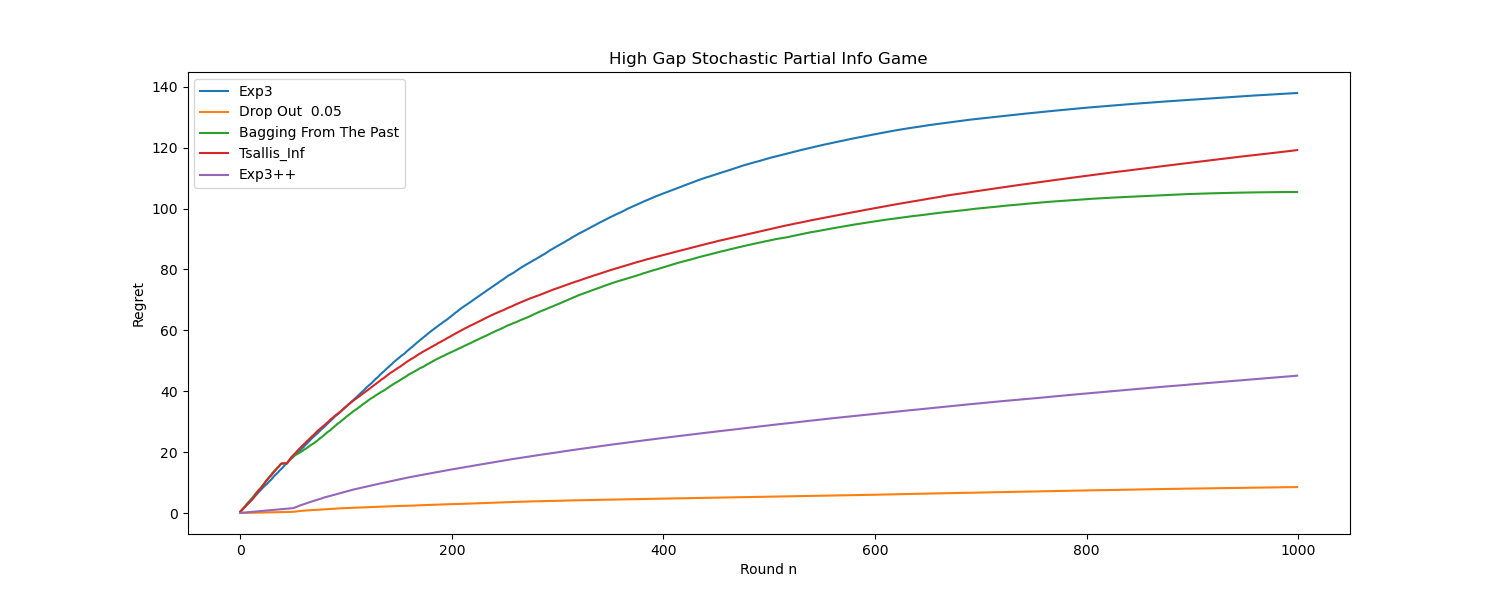
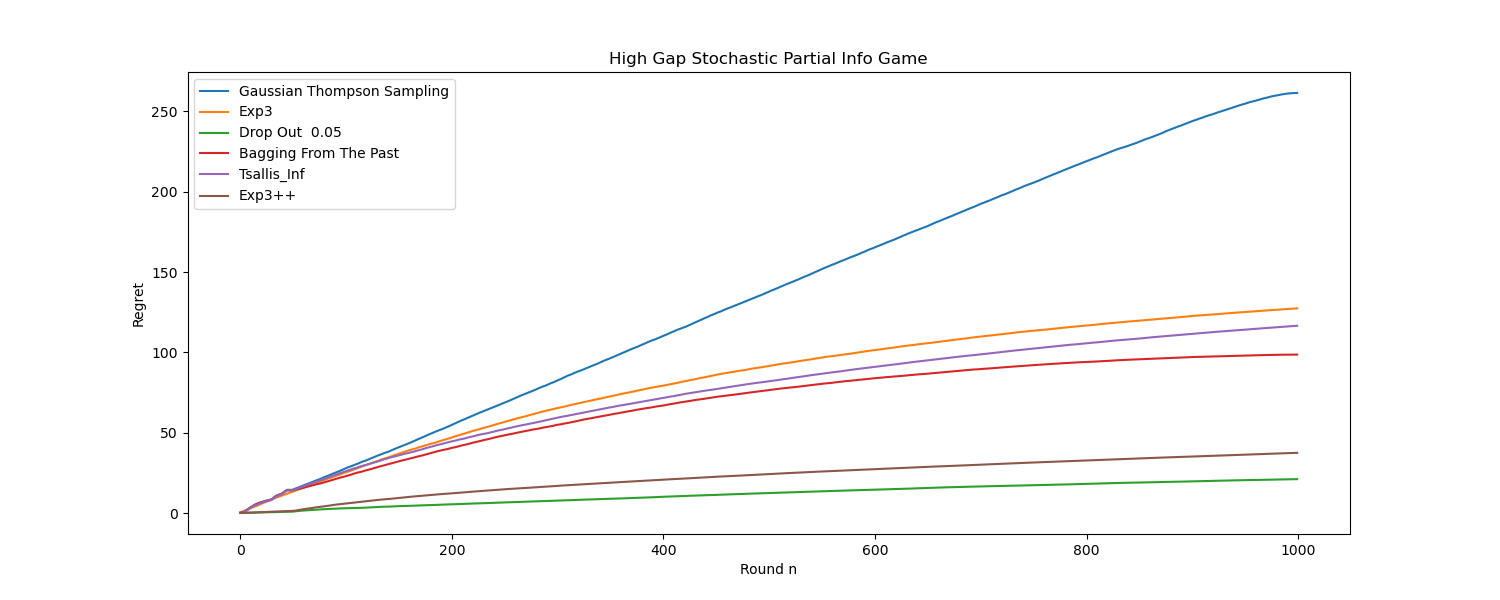
Gaussian Thompson Sampling

diff --git a/simulations.py b/simulations.py
@@ -13,8 +13,9 @@ from tsallis_inf import Tsallis_Inf
 from bagging_from_the_past import BaggingFromThePast_FI, BaggingFromThePast_PI, BaggingFromThePast_PI_v0, BaggingFromThePast_PI_v1
 from dropout import DropOut_FI, DropOut_PI
 from hedge import Hedge
+from gaussian_thompson_sampling import Gaussian_Thompson_FI, Gaussian_Thompson_PI
 import math
-
+import numpy as np
 
 high_gap_stochastic_data_job = High_Gap_Stochastic()
 stochastically_constrained_data_job = Stochastically_Constrained()
@@ -22,35 +23,34 @@ stochastically_constrained_data_job = Stochastically_Constrained()
 hedge = Hedge(stochastically_constrained_data_job)
 bagging_from_the_past_fi = BaggingFromThePast_FI(stochastically_constrained_data_job)
 drop_out_fi = DropOut_FI(stochastically_constrained_data_job, dropout_prob=0.05)
+gaussian_thompson_sampling = Gaussian_Thompson_FI(stochastically_constrained_data_job, sigma_sq=stochastically_constrained_data_job.get_K())
 full_info_ground = Full_Info_Play_Ground(stochastically_constrained_data_job, 
-                                         [hedge, bagging_from_the_past_fi, drop_out_fi], 
+                                         [gaussian_thompson_sampling, hedge, bagging_from_the_past_fi, drop_out_fi], 
                                          plot_label="Stochastically Constrained Full Info Game")
 full_info_ground.plot_results()
 
-
 bagging_from_the_past = BaggingFromThePast_PI(high_gap_stochastic_data_job)
-ucb_algorithm = UCB(high_gap_stochastic_data_job)
-explore_then_commit_algo = Explore_Then_Commit(high_gap_stochastic_data_job)
 exp3 = Exp3(high_gap_stochastic_data_job)
 exp3_plus_plus = Exp3_plus_plus(high_gap_stochastic_data_job)
 tsallis_inf = Tsallis_Inf(high_gap_stochastic_data_job)
 drop_out = DropOut_PI(high_gap_stochastic_data_job, dropout_prob=0.05)
+gaussian_thompson_sampling = Gaussian_Thompson_PI(high_gap_stochastic_data_job, 
+                                                  sigma_sq=stochastically_constrained_data_job.get_K())
 partial_info_ground = Partial_Info_Play_Ground(high_gap_stochastic_data_job, 
-                                               [exp3, drop_out, bagging_from_the_past, 
-                                                tsallis_inf, exp3_plus_plus], 
+                                               [gaussian_thompson_sampling, exp3, drop_out, 
+                                                bagging_from_the_past, tsallis_inf, exp3_plus_plus], 
                                                plot_label="High Gap Stochastic Partial Info Game")
 partial_info_ground.plot_results()
 
-
 bagging_from_the_past = BaggingFromThePast_PI(stochastically_constrained_data_job)
-ucb_algorithm = UCB(stochastically_constrained_data_job)
-explore_then_commit_algo = Explore_Then_Commit(stochastically_constrained_data_job)
 exp3 = Exp3(stochastically_constrained_data_job)
 exp3_plus_plus = Exp3_plus_plus(stochastically_constrained_data_job)
 tsallis_inf = Tsallis_Inf(stochastically_constrained_data_job)
 drop_out = DropOut_PI(stochastically_constrained_data_job, dropout_prob=0.05)
+gaussian_thompson_sampling = Gaussian_Thompson_PI(stochastically_constrained_data_job, 
+                                                  sigma_sq=stochastically_constrained_data_job.get_K())
 partial_info_ground_2 = Partial_Info_Play_Ground(stochastically_constrained_data_job, 
-                                                 [exp3, drop_out, bagging_from_the_past, 
-                                                 tsallis_inf, exp3_plus_plus],
+                                                 [gaussian_thompson_sampling, exp3, drop_out, 
+                                                 bagging_from_the_past, tsallis_inf, exp3_plus_plus],
                                                  plot_label = "Stochastically Constrained Partial Info Game")
 partial_info_ground_2.plot_results()

diff --git a/gaussian_thompson_sampling.py b/gaussian_thompson_sampling.py
@@ -1,0 +1,83 @@
+import numpy as np
+from numpy import random
+from algorithm_class import Bandit_Algorithm_PI, Bandit_Algorithm_FI
+import math
+
+class Gaussian_Thompson_FI(Bandit_Algorithm_FI):
+    def __init__(self, data_generating_mechanism, sigma_sq):
+        super().__init__()
+        self.K = data_generating_mechanism.get_K()
+        self.T = data_generating_mechanism.get_T()
+        self.exploration_phase_length = data_generating_mechanism.get_exploration_phase_length()
+        self.init_exploration = data_generating_mechanism.get_init_exploration()
+        self.sigma_sq = sigma_sq
+
+        self.__data_generating_mechanism = data_generating_mechanism
+        self.__label =  "Gaussian Thompson Sampling (sigma^2: {:0.2f})".format(self.sigma_sq)
+
+    @property
+    def data_generating_mechanism(self):
+        return self.__data_generating_mechanism
+    
+    @property
+    def label(self):
+        return self.__label
+
+    def get_arm_to_pull(self, losses, t):
+        if (t < self.exploration_phase_length):
+            return math.floor(t / self.init_exploration)
+        else:
+            perturbations = random.normal(scale = self.sigma_sq * (self.data_generating_mechanism.get_T() - t), 
+                                          size = self.data_generating_mechanism.get_K())
+            return np.argmin(np.sum(losses, axis=1) + perturbations)
+        
+class Gaussian_Thompson_PI(Bandit_Algorithm_PI):
+    def __init__(self, data_generating_mechanism, sigma_sq):
+        super().__init__()
+        self.K = data_generating_mechanism.get_K()
+        self.T = data_generating_mechanism.get_T()
+        self.exploration_phase_length = data_generating_mechanism.get_exploration_phase_length()
+        self.init_exploration = data_generating_mechanism.get_init_exploration()
+        self.current_sampling_distribution = np.ones(shape = self.K) / self.K
+        self.num_bootstrap_simulations = 100
+        self.sigma_sq = sigma_sq
+
+        self.__data_generating_mechanism = data_generating_mechanism
+        self.__current_sampling_distribution = np.ones(shape = self.K) / self.K
+        self.__label = "Gaussian Thompson Sampling (K: {:0.2f})".format(self.sigma_sq)
+
+    @property
+    def data_generating_mechanism(self):
+        return self.__data_generating_mechanism
+    
+    @property
+    def label(self):
+        return self.__label
+    
+    @property
+    def current_sampling_distribution(self):
+        return self.__current_sampling_distribution
+    
+    @current_sampling_distribution.setter
+    def current_sampling_distribution(self, distr):
+        self.__current_sampling_distribution = distr
+
+    def get_arm_to_pull(self, importance_weighted_losses, losses, t):
+        if (t < self.exploration_phase_length):
+            A_t = math.floor(t / self.data_generating_mechanism.get_init_exploration())
+            self.current_sampling_distribution = np.zeros(shape = self.data_generating_mechanism.get_K())
+            self.current_sampling_distribution[A_t] = 1
+        else:
+            num_counts = np.zeros(shape = self.K)
+            
+            for n in range(self.num_bootstrap_simulations):
+                perturbations = random.normal(scale = self.sigma_sq * (self.data_generating_mechanism.get_T() - t), 
+                                          size = self.data_generating_mechanism.get_K())
+                arm_chosen_this_simulation = np.argmin(np.sum(importance_weighted_losses, axis = 1) + perturbations)
+                num_counts[arm_chosen_this_simulation] = num_counts[arm_chosen_this_simulation] + 1
+                if (self.num_bootstrap_simulations == n + 1):
+                    A_t = arm_chosen_this_simulation
+                
+            self.current_sampling_distribution = num_counts / sum(num_counts)
+        
+        return A_t

diff --git a/gaussian_thompson_sampling_simulations.py b/gaussian_thompson_sampling_simulations.py
@@ -1,0 +1,46 @@
+import numpy as np
+import matplotlib.pyplot as plt
+from numpy import random
+from high_gap_stochastic import High_Gap_Stochastic
+from stochastically_constrained import Stochastically_Constrained
+from partial_info_play_ground import Partial_Info_Play_Ground
+from full_info_play_ground import Full_Info_Play_Ground
+from gaussian_thompson_sampling import Gaussian_Thompson_FI, Gaussian_Thompson_PI
+import math
+import numpy as np
+
+high_gap_stochastic_data_job = High_Gap_Stochastic()
+stochastically_constrained_data_job = Stochastically_Constrained()
+
+gt_K = Gaussian_Thompson_FI(stochastically_constrained_data_job, stochastically_constrained_data_job.get_K())
+gt_K_half = Gaussian_Thompson_FI(stochastically_constrained_data_job, stochastically_constrained_data_job.get_K() / 2)
+gt_K_sqrt = Gaussian_Thompson_FI(stochastically_constrained_data_job, math.sqrt(stochastically_constrained_data_job.get_K()))
+gt_K_1 = Gaussian_Thompson_FI(stochastically_constrained_data_job, 1)
+gt_K_point_1 = Gaussian_Thompson_FI(stochastically_constrained_data_job, 0.1)
+gt_K_point_zero_1 = Gaussian_Thompson_FI(stochastically_constrained_data_job, 0.01)
+full_info_ground = Full_Info_Play_Ground(stochastically_constrained_data_job, 
+                                         [gt_K, gt_K_half, gt_K_sqrt, gt_K_1, gt_K_point_1, gt_K_point_zero_1], 
+                                          plot_label="GT Full Information Stochastic Adversarial")
+full_info_ground.plot_results()
+
+gt_K = Gaussian_Thompson_PI(stochastically_constrained_data_job, stochastically_constrained_data_job.get_K())
+gt_K_half = Gaussian_Thompson_PI(stochastically_constrained_data_job, stochastically_constrained_data_job.get_K() / 2)
+gt_K_sqrt = Gaussian_Thompson_PI(stochastically_constrained_data_job, math.sqrt(stochastically_constrained_data_job.get_K()))
+gt_K_1 = Gaussian_Thompson_PI(stochastically_constrained_data_job, 1)
+gt_K_point_1 = Gaussian_Thompson_PI(stochastically_constrained_data_job, 0.1)
+gt_K_point_zero_1 = Gaussian_Thompson_PI(stochastically_constrained_data_job, 0.01)
+partial_info_ground = Partial_Info_Play_Ground(stochastically_constrained_data_job, 
+                                               [gt_K, gt_K_half, gt_K_sqrt, gt_K_1, gt_K_point_1, gt_K_point_zero_1], 
+                                               plot_label="GT Partial Information Stochastic Adversarial")
+partial_info_ground.plot_results()
+
+gt_K = Gaussian_Thompson_PI(high_gap_stochastic_data_job, stochastically_constrained_data_job.get_K())
+gt_K_half = Gaussian_Thompson_PI(high_gap_stochastic_data_job, stochastically_constrained_data_job.get_K() / 2)
+gt_K_sqrt = Gaussian_Thompson_PI(high_gap_stochastic_data_job, math.sqrt(stochastically_constrained_data_job.get_K()))
+gt_K_1 = Gaussian_Thompson_PI(high_gap_stochastic_data_job, 1)
+gt_K_point_1 = Gaussian_Thompson_PI(high_gap_stochastic_data_job, 0.1)
+gt_K_point_zero_1 = Gaussian_Thompson_PI(high_gap_stochastic_data_job, 0.01)
+partial_info_ground = Partial_Info_Play_Ground(high_gap_stochastic_data_job, 
+                                               [gt_K, gt_K_half, gt_K_sqrt, gt_K_1, gt_K_point_1, gt_K_point_zero_1], 
+                                               plot_label="GT Partial Information High-Gap Stochastic")
+partial_info_ground.plot_results()

diff --git a/drop_out_simulations.py b/drop_out_simulations.py
@@ -1,0 +1,47 @@
+import numpy as np
+import matplotlib.pyplot as plt
+from numpy import random
+from high_gap_stochastic import High_Gap_Stochastic
+from stochastically_constrained import Stochastically_Constrained
+from partial_info_play_ground import Partial_Info_Play_Ground
+from full_info_play_ground import Full_Info_Play_Ground
+from dropout import DropOut_FI, DropOut_PI
+import math
+import numpy as np
+
+high_gap_stochastic_data_job = High_Gap_Stochastic()
+stochastically_constrained_data_job = Stochastically_Constrained()
+
+drop_out_point_zero_one = DropOut_FI(stochastically_constrained_data_job, dropout_prob=0.01)
+drop_out_point_zero_five = DropOut_FI(stochastically_constrained_data_job, dropout_prob=0.05)
+drop_out_point_one = DropOut_FI(stochastically_constrained_data_job, dropout_prob=0.1)
+drop_out_point_two_five = DropOut_FI(stochastically_constrained_data_job, dropout_prob=0.25)
+drop_out_point_five = DropOut_FI(stochastically_constrained_data_job, dropout_prob=0.5)
+full_info_ground = Full_Info_Play_Ground(stochastically_constrained_data_job, 
+                                         [drop_out_point_zero_one, drop_out_point_zero_five,  
+                                          drop_out_point_one, drop_out_point_two_five, drop_out_point_five], 
+                                          plot_label="DropOut Full Information Stochastic Adversarial")
+full_info_ground.plot_results()
+
+drop_out_point_zero_one = DropOut_PI(stochastically_constrained_data_job, dropout_prob=0.01)
+drop_out_point_zero_five = DropOut_PI(stochastically_constrained_data_job, dropout_prob=0.05)
+drop_out_point_one = DropOut_PI(stochastically_constrained_data_job, dropout_prob=0.1)
+drop_out_point_two_five = DropOut_PI(stochastically_constrained_data_job, dropout_prob=0.25)
+drop_out_point_five = DropOut_PI(stochastically_constrained_data_job, dropout_prob=0.5)
+partial_info_ground = Partial_Info_Play_Ground(stochastically_constrained_data_job, 
+                                               [drop_out_point_zero_one, drop_out_point_zero_five,  
+                                                drop_out_point_one, drop_out_point_two_five, drop_out_point_five], 
+                                               plot_label="DropOut Partial Information Stochastic Adversarial")
+partial_info_ground.plot_results()
+
+drop_out_point_zero_one = DropOut_PI(high_gap_stochastic_data_job, dropout_prob=0.01)
+drop_out_point_zero_five = DropOut_PI(high_gap_stochastic_data_job, dropout_prob=0.05)
+drop_out_point_one = DropOut_PI(high_gap_stochastic_data_job, dropout_prob=0.1)
+drop_out_point_two_five = DropOut_PI(high_gap_stochastic_data_job, dropout_prob=0.25)
+drop_out_point_five = DropOut_PI(high_gap_stochastic_data_job, dropout_prob=0.5)
+partial_info_ground = Partial_Info_Play_Ground(high_gap_stochastic_data_job, 
+                                               [drop_out_point_zero_one, drop_out_point_zero_five,  
+                                                drop_out_point_one, drop_out_point_two_five, drop_out_point_five], 
+                                               plot_label="DropOut Partial Information High-Gap Stochastic")
+partial_info_ground.plot_results()
+

diff --git a/stochastically_constrained_fast_switch.py b/stochastically_constrained_fast_switch.py
@@ -2,7 +2,7 @@ import numpy as np
 from numpy import random
 from data_generating_mechanism import Data_Generating_Mechanism
 
-class Stochastically_Constrained(Data_Generating_Mechanism):
+class Stochastically_Constrained_Fast_Switch(Data_Generating_Mechanism):
 
     def __init__(self):
         mu_arms = [0.43693871, 0.36341421, 0.42633424, 0.65485628, 0.51202001, 
@@ -10,7 +10,6 @@ class Stochastically_Constrained(Data_Generating_Mechanism):
         super().__init__(time_horizon = 1000, mu_arms = mu_arms, num_runs = 100, init_exploration = 5)
         self.optimal_arm_index = np.flip(np.argsort(mu_arms))[0]
         self.worst_arm_index = np.argsort(mu_arms)[0]
-        self.current_exponential = 1
 
     def get_rewards(self, t):
         rewards = np.zeros(shape = self.get_K())
@@ -19,15 +18,9 @@ class Stochastically_Constrained(Data_Generating_Mechanism):
             rewards[i] = random.binomial(n = 1, p = self.get_mu_arm_i(i))
 
         # switch up rewards if t is in [2^(i - 1), 2^i] if i is odd
-        if ((i%2 == 1) and (t <= (2**self.current_exponential))):
+        if (t%4 == 1):
             temp = rewards[self.optimal_arm_index]
             rewards[self.optimal_arm_index] = rewards[self.worst_arm_index]
             rewards[self.worst_arm_index] = temp
-
-        if (t == (2**self.current_exponential)):
-            self.current_exponential = self.current_exponential + 1
-
-        if (t == self.get_T()):
-            self.current_exponential = 1
 
         return rewards

diff --git a/high_gap_stochastic.py b/high_gap_stochastic.py
@@ -5,10 +5,8 @@ from data_generating_mechanism import Data_Generating_Mechanism
 class High_Gap_Stochastic(Data_Generating_Mechanism):
         
     def __init__(self):
-        random.seed(0)
-        mu_arms = random.uniform(low = 0.25, high = 0.5, size = 10)
-        optimal_arm_index = np.argmax(mu_arms)
-        mu_arms[optimal_arm_index] = 0.8
+        mu_arms = [0.68693871, 0.36341421, 0.42633424, 0.55485628, 0.61202001, 
+                   0.64762386, 0.33343729, 0.59265664, 0.32908013, 0.81136635]
         super().__init__(time_horizon = 1000, mu_arms = mu_arms, num_runs = 100, init_exploration = 5)
 
     def get_rewards(self, t):

diff --git a/play_ground.py b/play_ground.py
@@ -16,7 +16,9 @@ class PlayGround:
 
         plt.rcParams["figure.figsize"] = (15,6)
         for i in range(len(self.games)):
-            plt.plot(range(self.data_generating_mechanism.get_T()), self.games[i].get_averaged_regret(), label = self.games[i].label)
+            plt.plot(range(self.data_generating_mechanism.get_T()), 
+                        self.games[i].get_averaged_regret(), 
+                        label = self.games[i].label)
         
         plt.legend()
         plt.title(self.label)

diff --git a/game.py b/game.py
@@ -18,6 +18,7 @@ class Game:
         for i in range(self.data_generating_mechanism.get_M()):
             self.accumulated_regret[i, :] = self.simulate_one_run()
             print('m = {:d}'.format(i))
+        print('Regret of bandit algorithm {} over {:d} runs calculated'.format(self.label, self.data_generating_mechanism.get_M()))
 
     def get_averaged_regret(self):
         return np.mean(self.accumulated_regret, axis=0)
